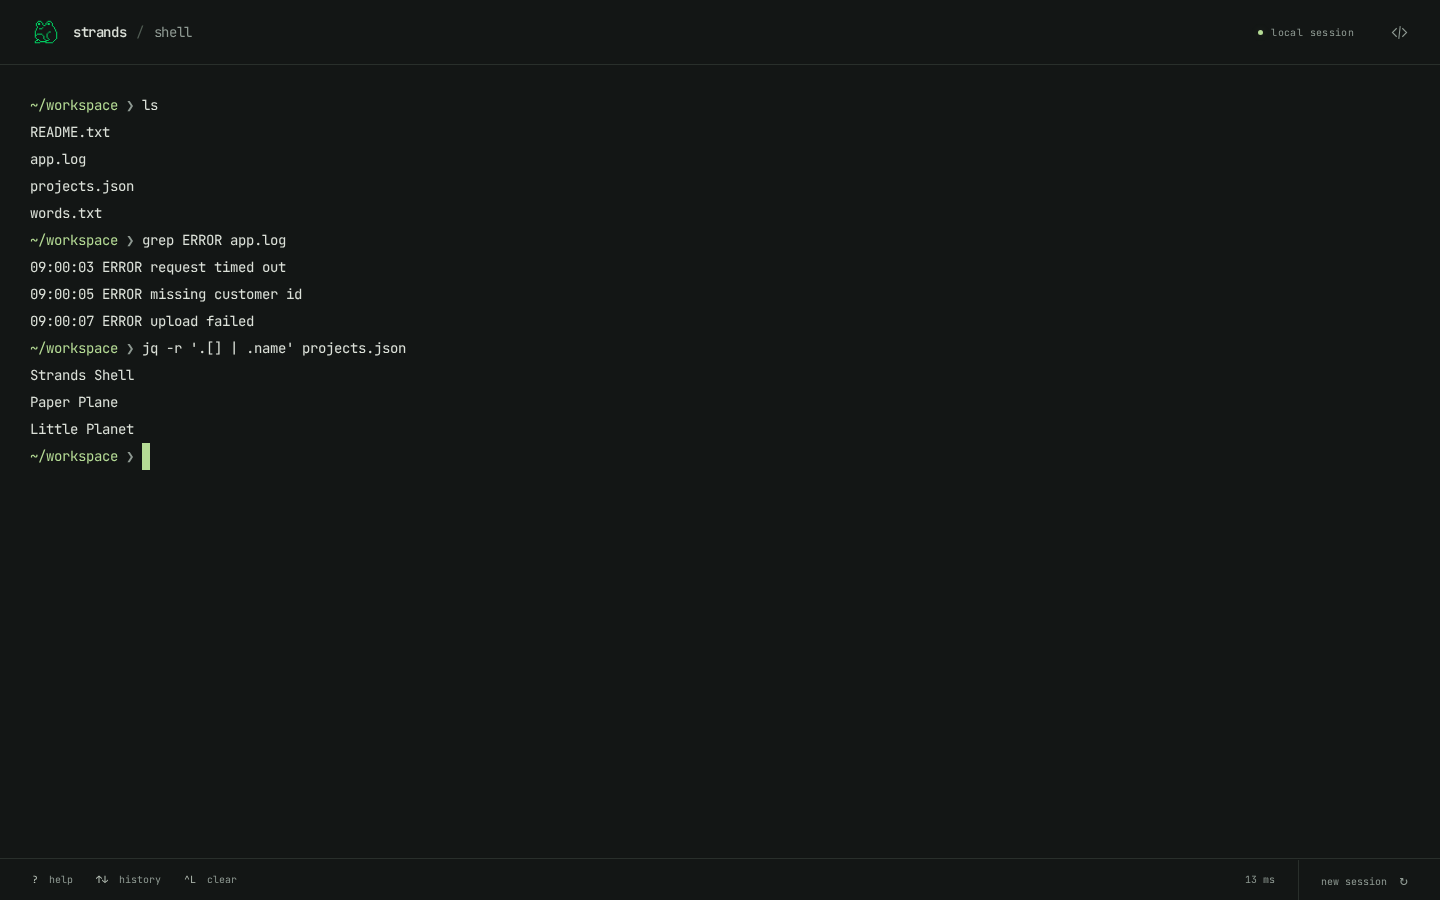
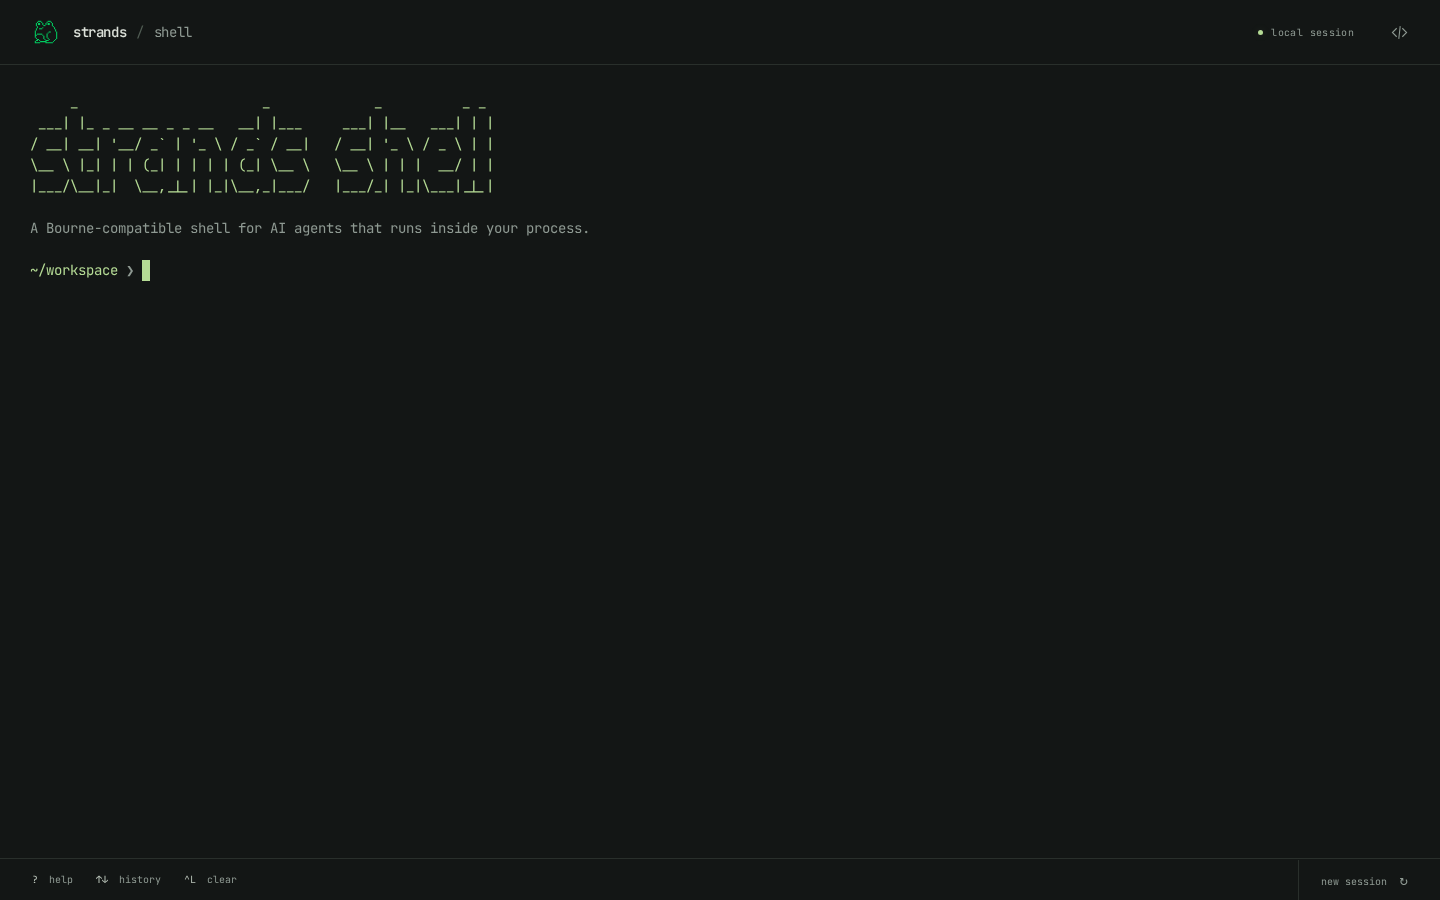
feat: add an ASCII opening for Strands Shell

diff --git a/main.js b/main.js
@@ -2,7 +2,8 @@ import { Terminal } from '@xterm/xterm'
 import { FitAddon } from '@xterm/addon-fit'
 import { Unicode11Addon } from '@xterm/addon-unicode11'
 import { LineEditor } from './line-editor.js'
-import { colors as c, displayPath, terminalText } from './terminal-text.js'
+import { intro } from './intro.js'
+import { colors as c, displayPath, terminalText, wrapText } from './terminal-text.js'
 import './style.css'
 
 const container = document.querySelector('#terminal')
@@ -19,7 +20,7 @@ const term = new Terminal({
   fontSize: smallScreen.matches ? 13 : 14,
   fontWeight: '400',
   fontWeightBold: '500',
-  lineHeight: 1.5,
+  lineHeight: 1.2,
   cursorStyle: 'block',
   cursorBlink: !reducedMotion.matches,
   scrollback: 3000,
@@ -56,9 +57,13 @@ let files = []
 let nextId = 0
 let activeId = 0
 let completed = 0
+let openingVisible = false
 
 const commands = 'alias awk basename cat cd chmod clear cp cut date dirname echo env exit export false find grep head help history jq ls lua mkdir mv printf pwd reset rm rmdir sed seq sleep sort source tail tee test touch tr true uname uniq unset wc which whoami xargs'.split(' ')
 const editor = new LineEditor(term, { submit: run, interrupt, complete })
+term.onData(data => {
+  if (['\x03', '\x0c', '\t'].includes(data)) openingVisible = false
+})
 
 function setState(value) {
   state = value
@@ -83,15 +88,8 @@ function complete(before) {
 
 async function showHelp() {
   const description = 'Strands Shell is a Bourne-compatible shell that runs inside your own process. It includes grep, sed, jq, curl, find, and dozens of other commands without fork, exec, or raw system calls.'
-  const paragraph = []
-  const width = Math.min(72, term.cols)
-  for (const word of description.split(' ')) {
-    const line = paragraph.at(-1)
-    if (!line || line.length + word.length + 1 > width) paragraph.push(word)
-    else paragraph[paragraph.length - 1] += ` ${word}`
-  }
   await editor.write([
-    `${c.white}${paragraph.join('\r\n')}${c.reset}`,
+    `${c.white}${wrapText(description, Math.min(72, term.cols))}${c.reset}`,
     '',
     `  ${c.green}ls${c.reset}                            look around`,
     `  ${c.green}cat README.txt${c.reset}                meet your workspace`,
@@ -128,6 +126,7 @@ async function output(text, color = '') {
 }
 
 async function run(command) {
+  openingVisible = false
   const trimmed = command.trim()
   if (!trimmed) return prompt()
   if (trimmed === 'clear') {
@@ -170,12 +169,17 @@ function startSession(message, clear = false) {
   clearTimeout(timer)
   worker?.terminate()
   editor.active = false
+  openingVisible = false
   setState('loading')
   result.textContent = ''
   cwd = '/home/lash/workspace'
   files = []
   editor.enqueue(async () => {
-    if (clear) await editor.clear()
+    if (clear) {
+      await editor.clear()
+      await editor.write(intro(term.cols))
+      openingVisible = true
+    }
     if (message) await output(message + '\n', c.muted)
   })
   if (!globalThis.WebAssembly?.Suspending || !WebAssembly.promising) {
@@ -225,6 +229,7 @@ help.addEventListener('click', () => editor.enqueue(async () => {
   term.focus()
 }))
 document.querySelector('#clear').addEventListener('click', () => editor.enqueue(async () => {
+  openingVisible = false
   await editor.clear()
   term.focus()
 }))
@@ -255,9 +260,24 @@ term.element.addEventListener('paste', event => {
 }, true)
 
 new ResizeObserver(() => editor.enqueue(async () => {
+  const previousSize = `${term.cols}:${term.rows}`
   const fontSize = smallScreen.matches ? 13 : 14
   if (term.options.fontSize !== fontSize) term.options.fontSize = fontSize
   fit.fit()
+  if (openingVisible && state !== 'failed' && previousSize !== `${term.cols}:${term.rows}`) {
+    // Reflow the opening while preserving any command the user has started.
+    const active = editor.active
+    const draft = editor.text.join('')
+    const cursor = editor.cursor
+    editor.active = false
+    await editor.clear()
+    await editor.write(intro(term.cols))
+    if (active) {
+      await editor.prompt(displayPath(cwd))
+      await editor.replace(draft)
+      editor.cursor = cursor
+    }
+  }
   if (editor.active) await editor.render()
 })).observe(container)
 reducedMotion.addEventListener('change', () => {
@@ -268,5 +288,5 @@ window.addEventListener('pagehide', () => {
   worker?.terminate()
 })
 
-startSession()
+startSession(undefined, true)
 term.focus()

diff --git a/intro.js b/intro.js
@@ -1,0 +1,28 @@
+import { colors, wrapText } from './terminal-text.js'
+
+const strands = [
+  "     _                       _",
+  " ___| |_ _ __ __ _ _ __   __| |___",
+  "/ __| __| '__/ _` | '_ \\ / _` / __|",
+  "\\__ \\ |_| | | (_| | | | | (_| \\__ \\",
+  "|___/\\__|_|  \\__,_|_| |_|\\__,_|___/",
+]
+const shell = [
+  "     _          _ _",
+  " ___| |__   ___| | |",
+  "/ __| '_ \\ / _ \\ | |",
+  "\\__ \\ | | |  __/ | |",
+  "|___/_| |_|\\___|_|_|",
+]
+const width = Math.max(...strands.map(line => line.length))
+const wide = strands.map((line, index) => `${line.padEnd(width + 3)}${shell[index]}`.trimEnd())
+const wideWidth = Math.max(...wide.map(line => line.length))
+const description = 'A Bourne-compatible shell for AI agents that runs inside your process.'
+
+export function intro(columns) {
+  const artwork = columns >= wideWidth ? wide
+    : columns >= width ? [...strands, '', ...shell]
+      : ['strands / shell']
+  return `${colors.green}${artwork.join('\r\n')}${colors.reset}\r\n\r\n` +
+    `${colors.muted}${wrapText(description, columns)}${colors.reset}\r\n\r\n`
+}

diff --git a/terminal-text.js b/terminal-text.js
@@ -19,6 +19,16 @@ export const colors = {
   white: '\x1b[38;2;220;225;217m',
 }
 
+export function wrapText(text, columns) {
+  const lines = []
+  for (const word of text.split(' ')) {
+    const line = lines.at(-1)
+    if (!line || line.length + word.length + 1 > columns) lines.push(word)
+    else lines[lines.length - 1] += ` ${word}`
+  }
+  return lines.join('\r\n')
+}
+
 export function displayPath(cwd) {
   const path = plainText(cwd).replace(/[\r\n\t]/g, '')
   return path === '/home/lash' || path.startsWith('/home/lash/')
